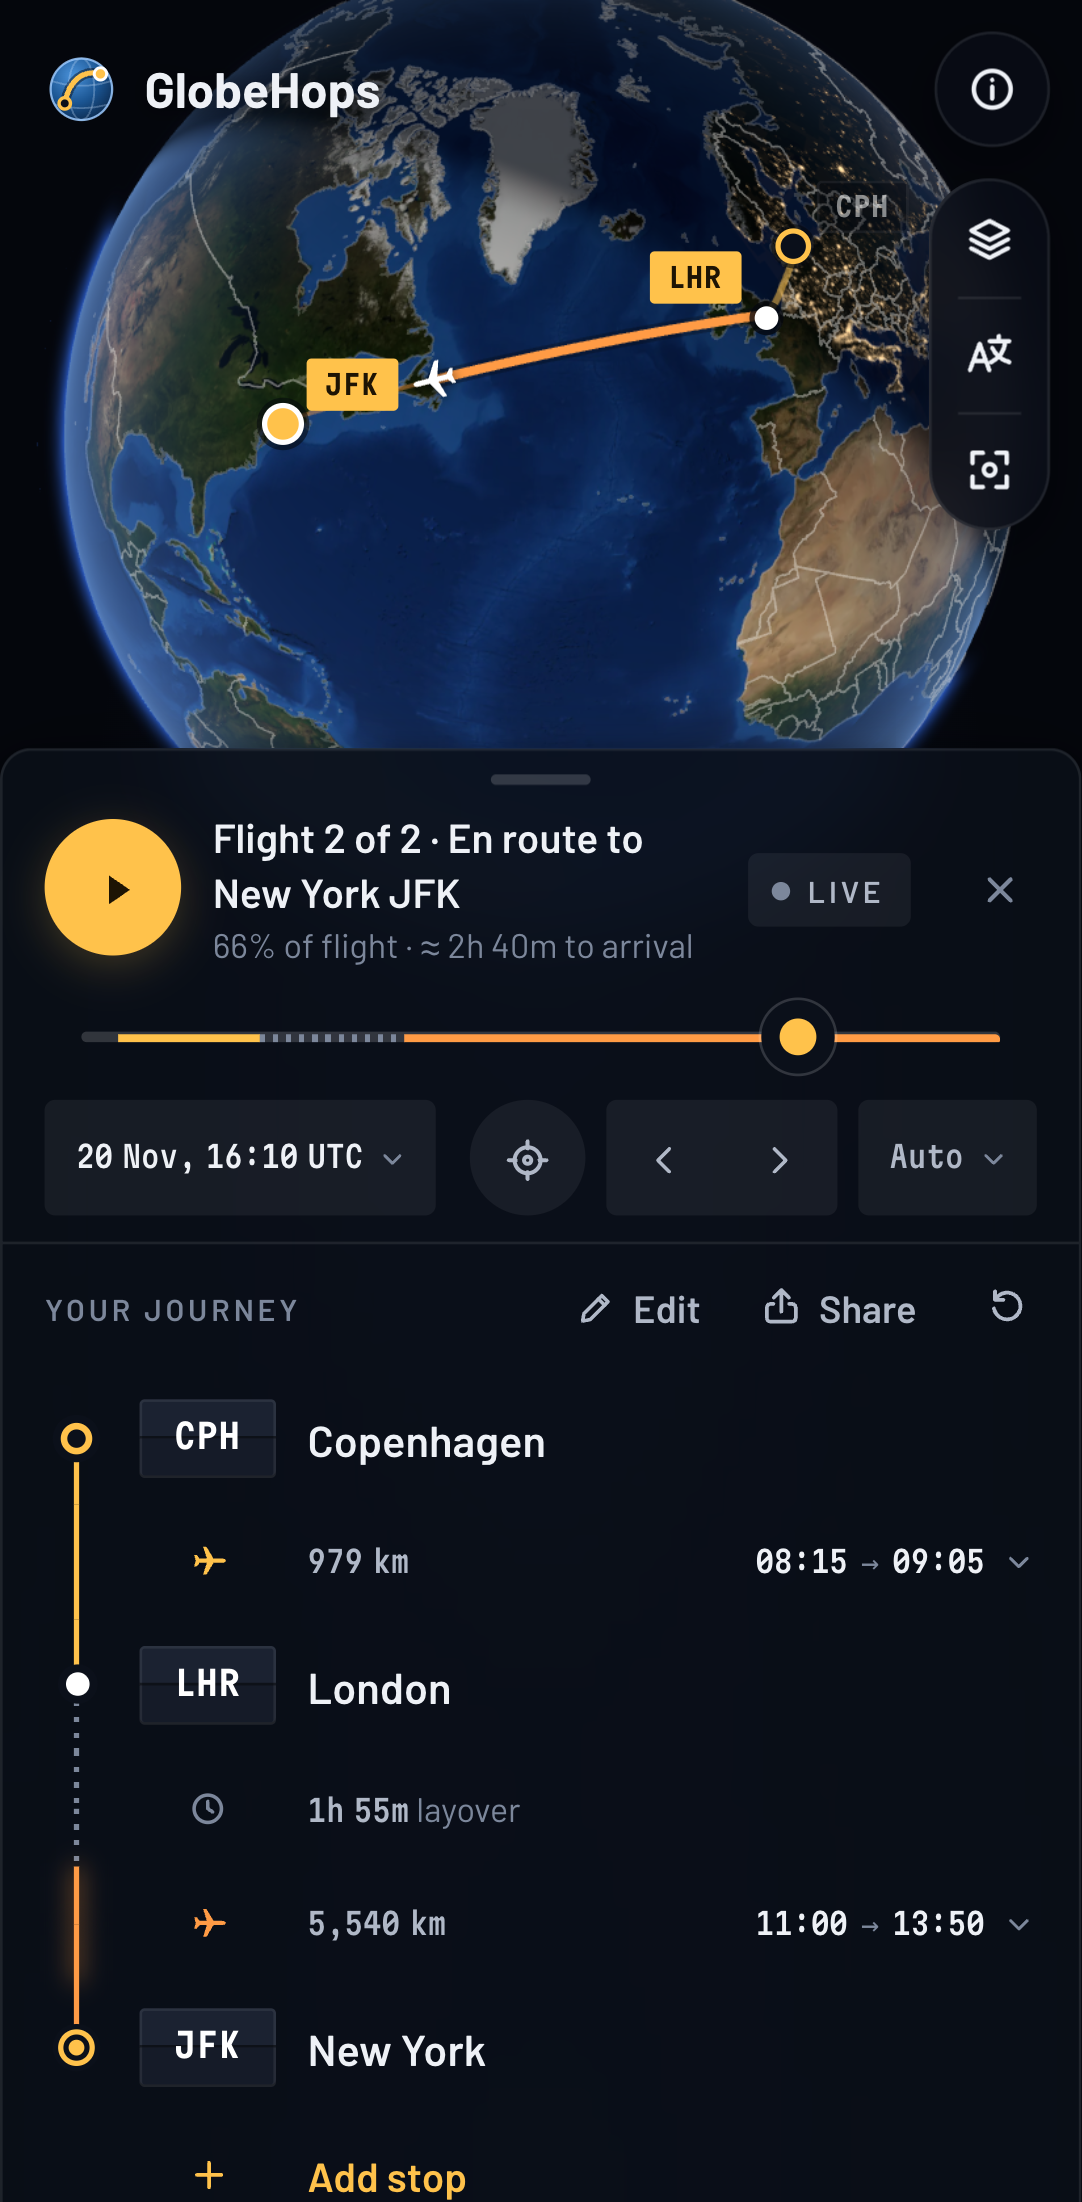
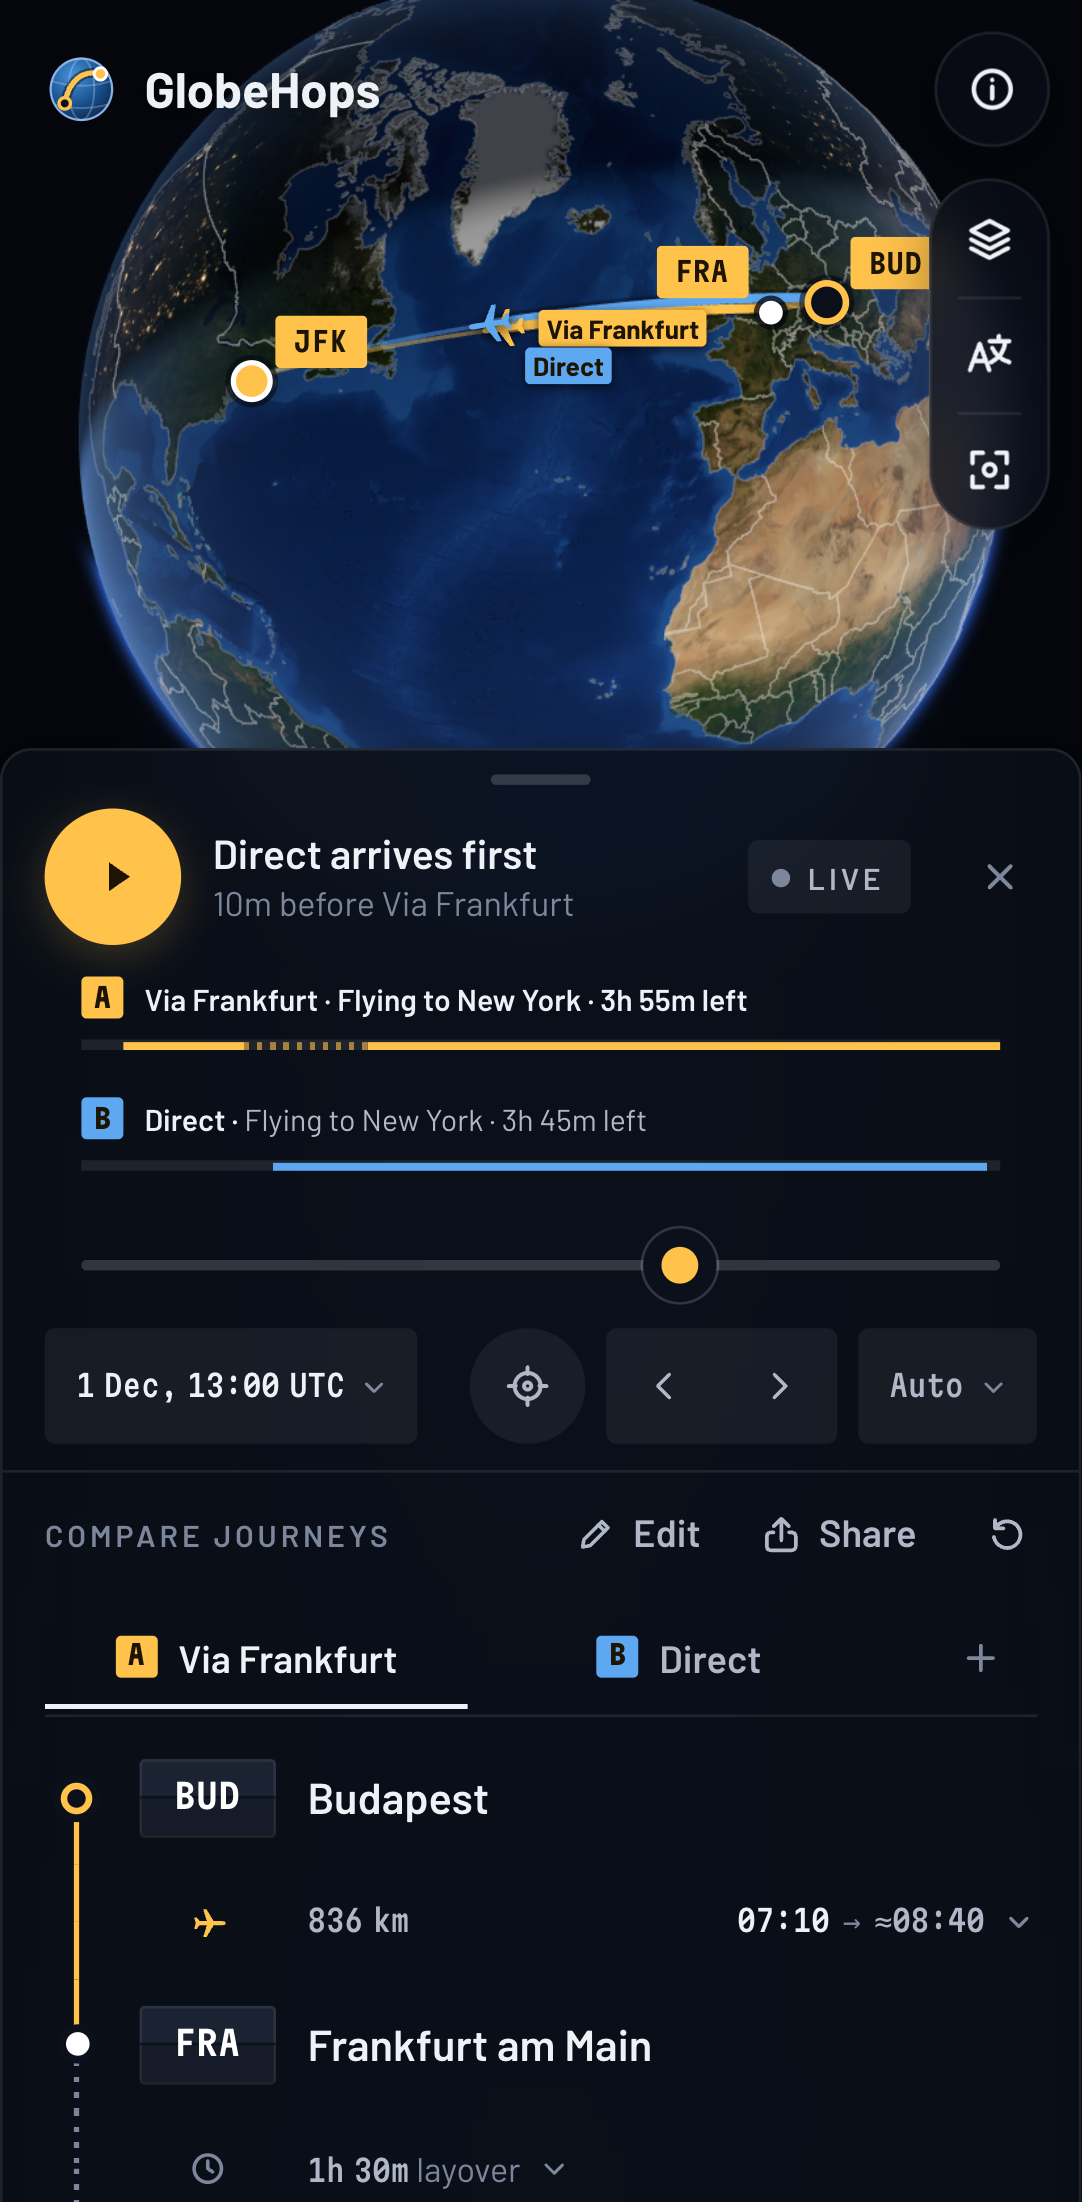
Release 1.23.1: a smoother move for installed apps
The retiring worker on the old GitHub Pages address now keeps its
activation short and redirects every page load in its scope itself, so
installed apps reach globehops.marki.im on the next launch at the
latest and other old pages no longer stall while it switches. Fresh
desktop and phone screenshots captured from the live site for the
README and the web app manifest.

Claude-Session: https://claude.ai/code/session_014k7D159nVrbQ1Y2WGUJVzm

diff --git a/.github/pages-redirect/sw.js b/.github/pages-redirect/sw.js
@@ -1,18 +1,26 @@
 // GlobeHops moved from https://tmrk.github.io/globehops/ to https://globehops.marki.im/.
 // This worker replaces the app's offline worker at the old address. Installed and returning
-// visitors' browsers pick it up on their next update check; it activates at once, deletes only
-// GlobeHops's own caches (other sites share this origin), sends open windows to the same page at
-// the new address and unregisters itself.
+// visitors' browsers pick it up on their next update check and it activates at once. Activation
+// only deletes GlobeHops's own caches (other sites share this origin) and takes control, because
+// pages in scope wait for it. The old app then reloads itself, and every page load in scope is
+// redirected to the same path, query and fragment at the new address. Windows still open a moment
+// later are sent there too, and the worker unregisters itself.
+var NEW_ORIGIN = 'https://globehops.marki.im';
+
+function newAddress(address) {
+  var url = new URL(address);
+  return NEW_ORIGIN + (url.pathname.replace(/^\/globehops(?=\/|$)/, '') || '/') + url.search + url.hash;
+}
+
 self.addEventListener('install', function () {
   self.skipWaiting();
 });
 
 self.addEventListener('activate', function (event) {
-  event.waitUntil(
-    (async function () {
-      await self.clients.claim();
-      var keys = await caches.keys();
-      await Promise.all(
+  var cleaned = caches
+    .keys()
+    .then(function (keys) {
+      return Promise.all(
         keys
           .filter(function (key) {
             return key.indexOf('globehops-') === 0;
@@ -21,15 +29,29 @@ self.addEventListener('activate', function (event) {
             return caches.delete(key);
           }),
       );
-      var windows = await self.clients.matchAll({ type: 'window' });
-      await Promise.all(
-        windows.map(function (client) {
-          var url = new URL(client.url);
-          var path = url.pathname.replace(/^\/globehops(?=\/|$)/, '') || '/';
-          return client.navigate('https://globehops.marki.im' + path + url.search + url.hash).catch(function () {});
-        }),
-      );
-      await self.registration.unregister();
-    })(),
-  );
+    })
+    .then(function () {
+      return self.clients.claim();
+    });
+  event.waitUntil(cleaned);
+  cleaned.then(function () {
+    setTimeout(function () {
+      self.clients
+        .matchAll({ type: 'window' })
+        .then(function (windows) {
+          return Promise.all(
+            windows.map(function (client) {
+              return client.navigate(newAddress(client.url)).catch(function () {});
+            }),
+          );
+        })
+        .finally(function () {
+          return self.registration.unregister();
+        });
+    }, 1500);
+  });
+});
+
+self.addEventListener('fetch', function (event) {
+  if (event.request.mode === 'navigate') event.respondWith(Response.redirect(newAddress(event.request.url), 301));
 });

diff --git a/docs/DEVELOPMENT.md b/docs/DEVELOPMENT.md
@@ -70,7 +70,7 @@ Before finishing: lint, unit tests, build, the E2E specs the change affects (e.g
 
 ## README screenshots
 
-Use Playwright compositor screenshots from a production preview, as for the rendering checks above; do not extract the WebGL drawing buffer or alter the UI with screenshot-only CSS. The 1.8.0 captures keep the previous Copenhagen–London–New York route and paused moment, with place names off for a clear route. Desktop is 1440×900; phone uses the Pixel 7 device preset (including its device scale). After `npm run build`, start `npm run preview -- --port 4180 --strictPort` in a separate terminal, then run from the checkout:
+Capture the README screenshots from the **deployed** site with Playwright compositor screenshots, as for the rendering checks above; do not extract the WebGL drawing buffer or alter the UI with screenshot-only CSS. The 1.23.0 captures show a paused Copenhagen–London–New York journey on desktop (1440×900) and a Budapest–New York comparison on the Pixel 7 device preset (including its device scale), with place names off for clear routes. Seeding `globehops:analytics=denied` answers the production-only consent question, as a returning visitor would have. Run from the checkout after the release is live:
 
 ```sh
 node --input-type=module <<'JS'
@@ -78,23 +78,26 @@ import { chromium, devices, expect } from '@playwright/test';
 const browser = await chromium.launch({
   args: ['--use-angle=swiftshader', '--enable-unsafe-swiftshader', '--ignore-gpu-blocklist'],
 });
-const route = '?route=CPH-LHR-JFK&dep1=2026-11-20T08:15&arr2=2026-11-20T09:05'
-  + '&dep2=2026-11-20T11:00&arr3=2026-11-20T13:50&t=2026-11-20T16:10Z'
-  + '&clock=utc&names=0&follow=0';
-for (const [path, device] of [
-  ['docs/screenshot.png', { viewport: { width: 1440, height: 900 } }],
-  ['docs/screenshot-mobile.png', devices['Pixel 7']],
+const view = '&clock=utc&names=0&follow=0';
+for (const [path, device, route] of [
+  ['docs/screenshot.png', { viewport: { width: 1440, height: 900 } },
+    '?route=CPH-LHR-JFK&dep1=2026-11-20T08:15&arr2=2026-11-20T09:05&dep2=2026-11-20T11:00&arr3=2026-11-20T13:50'
+    + view + '&t=2026-11-20T16:10Z'],
+  ['docs/screenshot-mobile.png', devices['Pixel 7'],
+    '?route=BUD-FRA-JFK&dep1=2026-12-01T07:10&label=Via%20Frankfurt&b.route=BUD-JFK&b.dep1=2026-12-01T09:00'
+    + '&b.label=Direct' + view + '&t=2026-12-01T13:00Z'],
 ]) {
   const context = await browser.newContext({
     ...device, locale: 'en-GB', timezoneId: 'UTC', reducedMotion: 'reduce',
   });
-  await context.addInitScript(() => localStorage.setItem('globehops:locale', 'en'));
+  await context.addInitScript(() => {
+    localStorage.setItem('globehops:locale', 'en');
+    localStorage.setItem('globehops:analytics', 'denied');
+  });
   const page = await context.newPage();
-  await page.goto('http://localhost:4180/' + route);
-  await expect(page.locator('.stage')).toHaveClass(/is-ready/);
+  await page.goto('https://globehops.marki.im/' + route);
+  await expect(page.locator('.stage')).toHaveClass(/is-ready/, { timeout: 60_000 });
   await expect(page.getByRole('application')).toHaveAttribute('data-camera-motion', 'settled');
-  await expect(page.getByRole('region', { name: 'Timeline', exact: true }).getByRole('slider'))
-    .toHaveValue(String(Date.parse('2026-11-20T16:10Z')));
   await page.evaluate(() => document.fonts.ready);
   await page.waitForLoadState('networkidle');
   await page.screenshot({ path, fullPage: true, animations: 'disabled' });
@@ -104,7 +107,7 @@ await browser.close();
 JS
 ```
 
-Inspect both PNGs before committing them. Keep additional picker, edited-route and optional place-name captures under `test-results/`, never in the commit. Local previews do not show the production-only analytics question.
+Inspect both PNGs before committing them, then convert them to the manifest's `public/screenshots/{wide,narrow}.webp` (WebP quality 82, as `npm run icons:build` does) so the install sheet matches. Keep additional picker, edited-route and optional place-name captures under `test-results/`, never in the commit. To capture a local preview instead, replace the address with `http://localhost:4180/` after `npm run build` and `npm run preview -- --port 4180 --strictPort`; local previews never show the analytics question.
 
 ## Releases and versions
 

diff --git a/RECENT_CHANGES.md b/RECENT_CHANGES.md
@@ -2,13 +2,18 @@
 
 Every release has a [semantic version](https://semver.org/) (shown in About, and faintly in the bottom-left corner on desktop) and a git tag `v<version>`. Versions up to 1.5.0 were assigned after the fact to the releases below.
 
+## 1.23.1 – 2026-11-10 – A smoother move for installed apps
+
+- **Installed apps move over sooner.** Once an app installed from the old `tmrk.github.io/globehops/` address has picked up the move, every launch opens the same page at `globehops.marki.im` straight away, and other pages at the old address no longer stall while it switches.
+- **New screenshots** of the live app in the README and in the install sheet.
+
 ## 1.23.0 – 2026-11-10 – A new home at globehops.marki.im
 
 - **New address.** GlobeHops now lives at [globehops.marki.im](https://globehops.marki.im/), on Cloudflare Pages and at the root of its own domain (`/`, `/en/`, `/hu/`, `/sv/`). Share links, the **Map your booking with AI** prompt, page and social-preview metadata, `llms.txt` (now at the site root), the agent capabilities, schema and worked examples, and MCP links all use it.
-- **Old links keep working.** `tmrk.github.io/globehops/` now only redirects: every journey, comparison, trip, language and agent link opens the same page on the new domain, with its query and fragment unchanged. Browsers and installed apps that kept the old offline copy are moved over on their next visit, and the old copy is removed. Old `/globehops/…` paths also redirect on the new domain.
+- **Old links keep working.** `tmrk.github.io/globehops/` now only redirects: every journey, comparison, trip, language and agent link opens the same page on the new domain, with its query and fragment unchanged. Browsers and installed apps that kept the old offline copy move over during their next visit (or, at the latest, the one after), and the old copy is removed. Old `/globehops/…` paths also redirect on the new domain.
 - **Deployment.** Every push to `main` is built on Cloudflare (unit tests first, then the production build) and goes live automatically; branches and pull requests get their own preview. GitHub Actions now only checks each change (lint, unit tests, build and the smoke tests), and release tags follow Cloudflare's production deployment. Hashed files are cached for a year, and unknown addresses show a short page in English, Hungarian and Swedish linking back to the app.
 - **Analytics** report only from `globehops.marki.im`, to the same property and with the same consent and privacy rules.
-- **A shorter README** around the live app, with new desktop and phone screenshots.
+- **A shorter README** around the live app, with the full walkthrough in a new [user guide](docs/USER_GUIDE.md).
 
 ## 1.22.1 – 2026-11-10 – A one-line small player
 

diff --git a/docs/DEPLOYMENT.md b/docs/DEPLOYMENT.md
@@ -62,7 +62,7 @@ gh run list --repo tmrk/globehops --workflow update-airports.yml
 GitHub Pages (**Settings → Pages → Source: GitHub Actions**) no longer hosts the app. `.github/workflows/pages-redirect.yml` publishes the small site in `.github/pages-redirect/` whenever those files change (or on manual dispatch):
 
 - `index.html`, copied to `404.html` and to `en/`, `hu/` and `sv/` (with their own canonical address), replaces the location with `https://globehops.marki.im` plus the path below `/globehops/`, the query and the fragment. Every itinerary, compare, trip, locale and agent link therefore opens unchanged on the new domain. Without JavaScript, a meta refresh opens the new home page. GitHub Pages cannot send HTTP 301s for a project site; the canonical links and immediate client-side redirect are the permanent-redirect signal.
-- `sw.js` replaces the app's offline worker for browsers and installed apps that still have the old version. It installs on their next update check, activates at once, deletes only GlobeHops's own `globehops-` caches (other projects share the `tmrk.github.io` origin), sends open windows to the same page on the new domain and unregisters itself. Saved preferences and remembered journeys belong to each origin, so they do not move; installed home-screen apps keep opening the old address until reinstalled from the new one, and are redirected each time.
+- `sw.js` replaces the app's offline worker for browsers and installed apps that still have the old version. Their next update check downloads it and it asks to activate at once; Chrome then waits until the old worker has no work in flight (about half a minute in tests) or until the app is next opened. Activation only deletes GlobeHops's own `globehops-` caches (other projects share the `tmrk.github.io` origin) and takes control, because pages in scope wait for it; the old app then reloads itself, every page load in scope is redirected (301 from the worker) to the same path, query and fragment on the new domain, windows still open 1.5 s later are navigated there, and the worker unregisters itself. Tested by installing the 1.22.1 build under `/globehops/` locally and swapping in this site. Saved preferences and remembered journeys belong to each origin, so they do not move; installed home-screen apps keep opening the old address until reinstalled from the new one, and are redirected each time.
 - `llms.txt` tells agents that fetch the old guide where the current one is.
 
 ```sh

diff --git a/README.md b/README.md
@@ -8,9 +8,9 @@
 
 GlobeHops draws your flights as great-circle routes on an interactive 3D globe, with distances, estimated flight times, layovers and every airport's local time. Add your flight times if you like, press Play and watch the journey unfold across the sunlit and dark sides of the planet. It is free and open source, runs in any modern browser on phones, tablets and desktops, needs no account and works offline once installed as an app.
 
-![GlobeHops on a desktop: a journey drawn on the globe, with the journey panel on the left](docs/screenshot.png)
+![GlobeHops on a desktop: a Copenhagen–London–New York journey on the globe, the plane over the Atlantic and city lights on the night side, with the journey panel on the left and the timeline below](docs/screenshot.png)
 
-<p align="center"><img src="docs/screenshot-mobile.png" alt="GlobeHops on a phone: the globe above, the journey sheet below" width="300"></p>
+<p align="center"><img src="docs/screenshot-mobile.png" alt="GlobeHops on a phone: two ways from Budapest to New York compared on the globe, with the shared timeline showing that the direct flight arrives first" width="300"></p>
 
 ## What you can do
 
